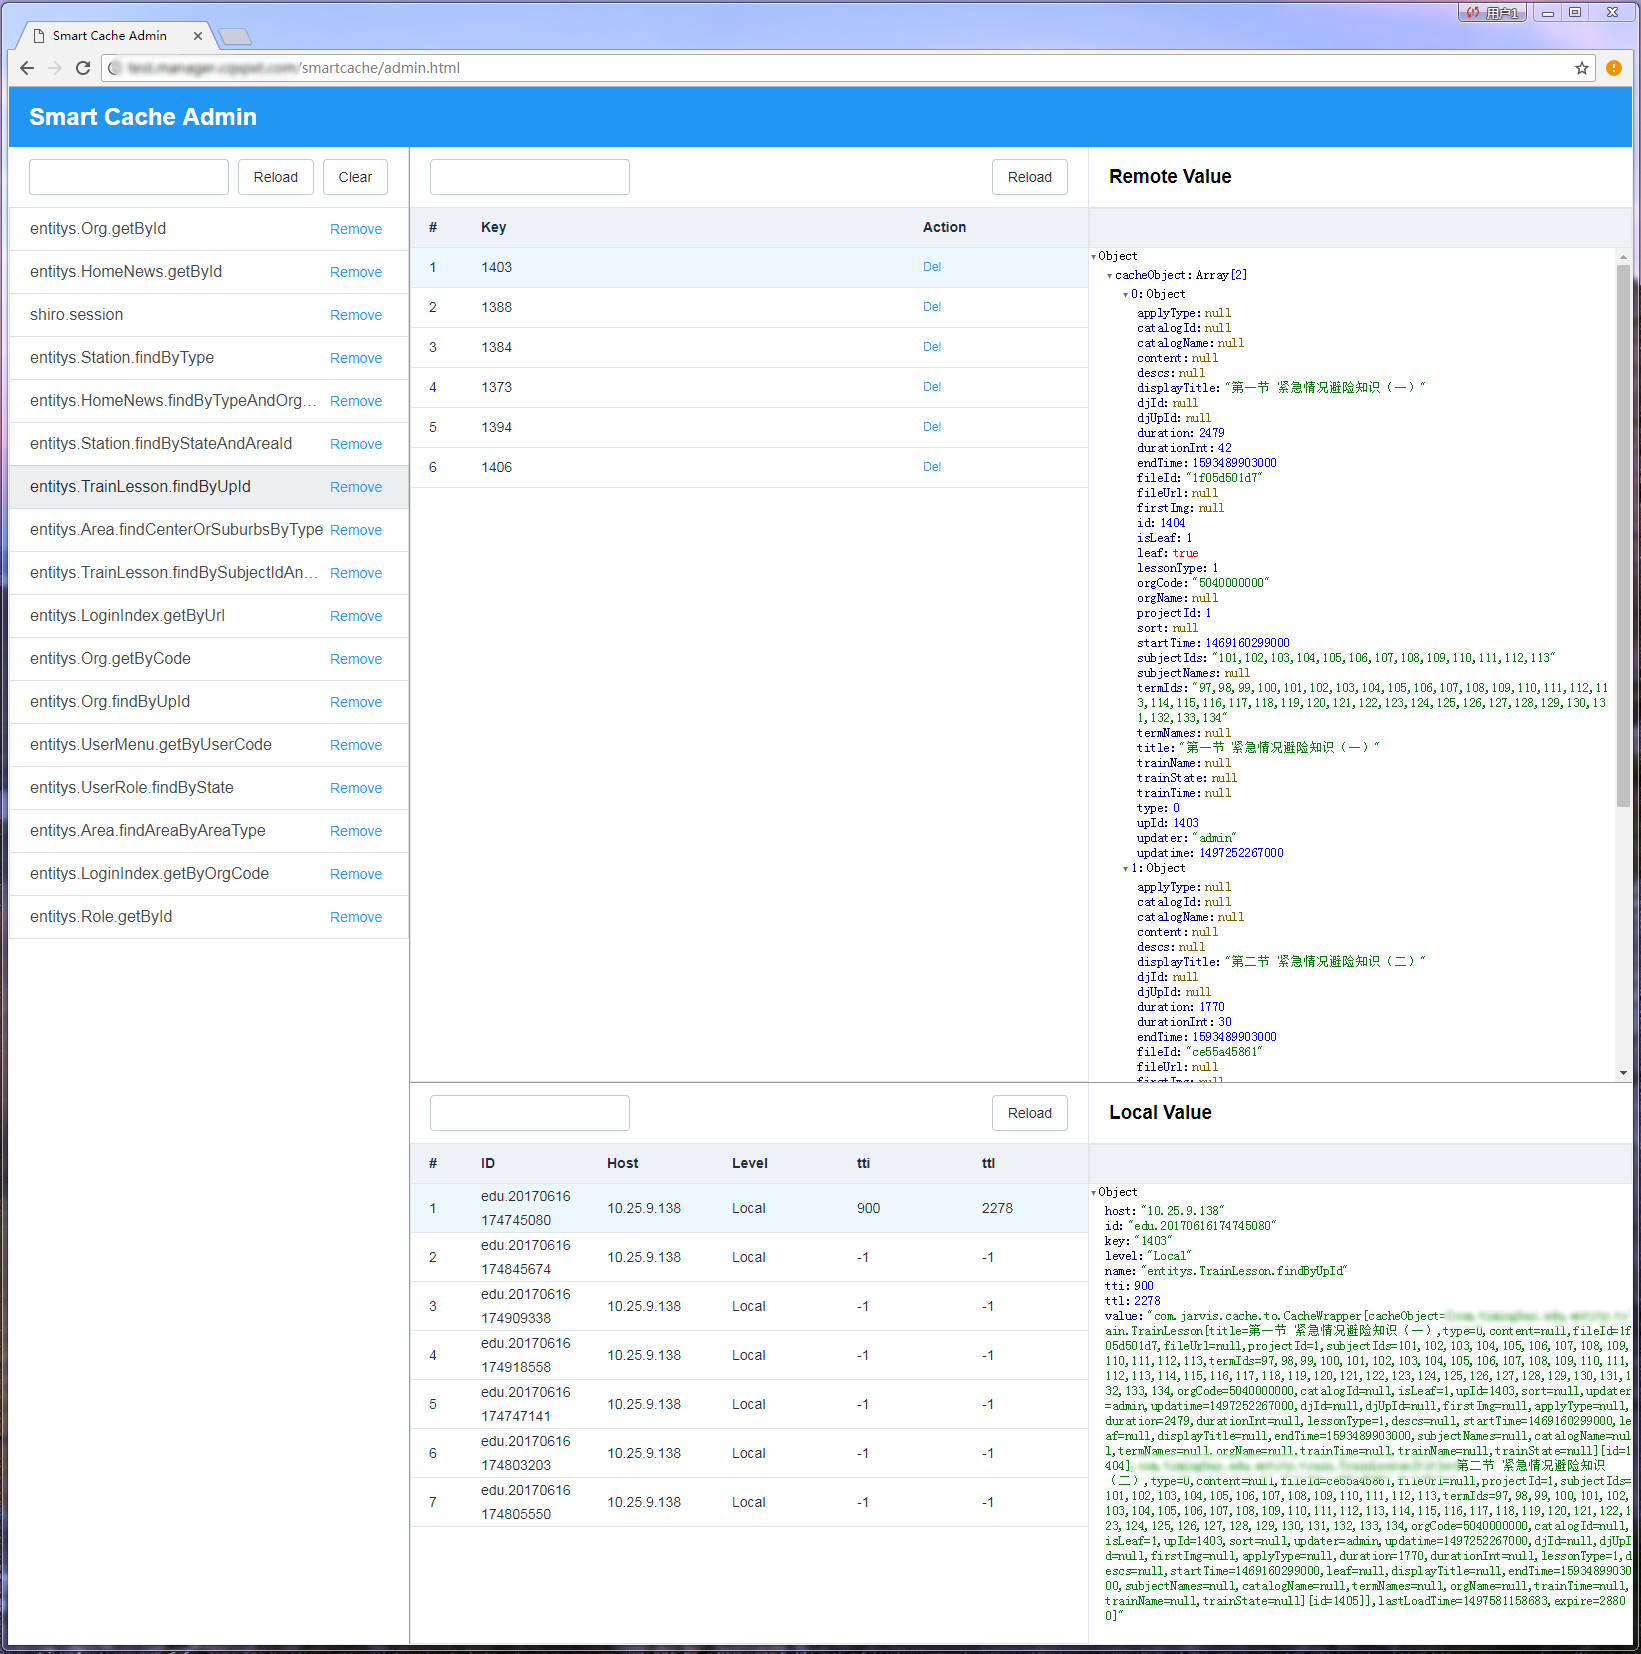
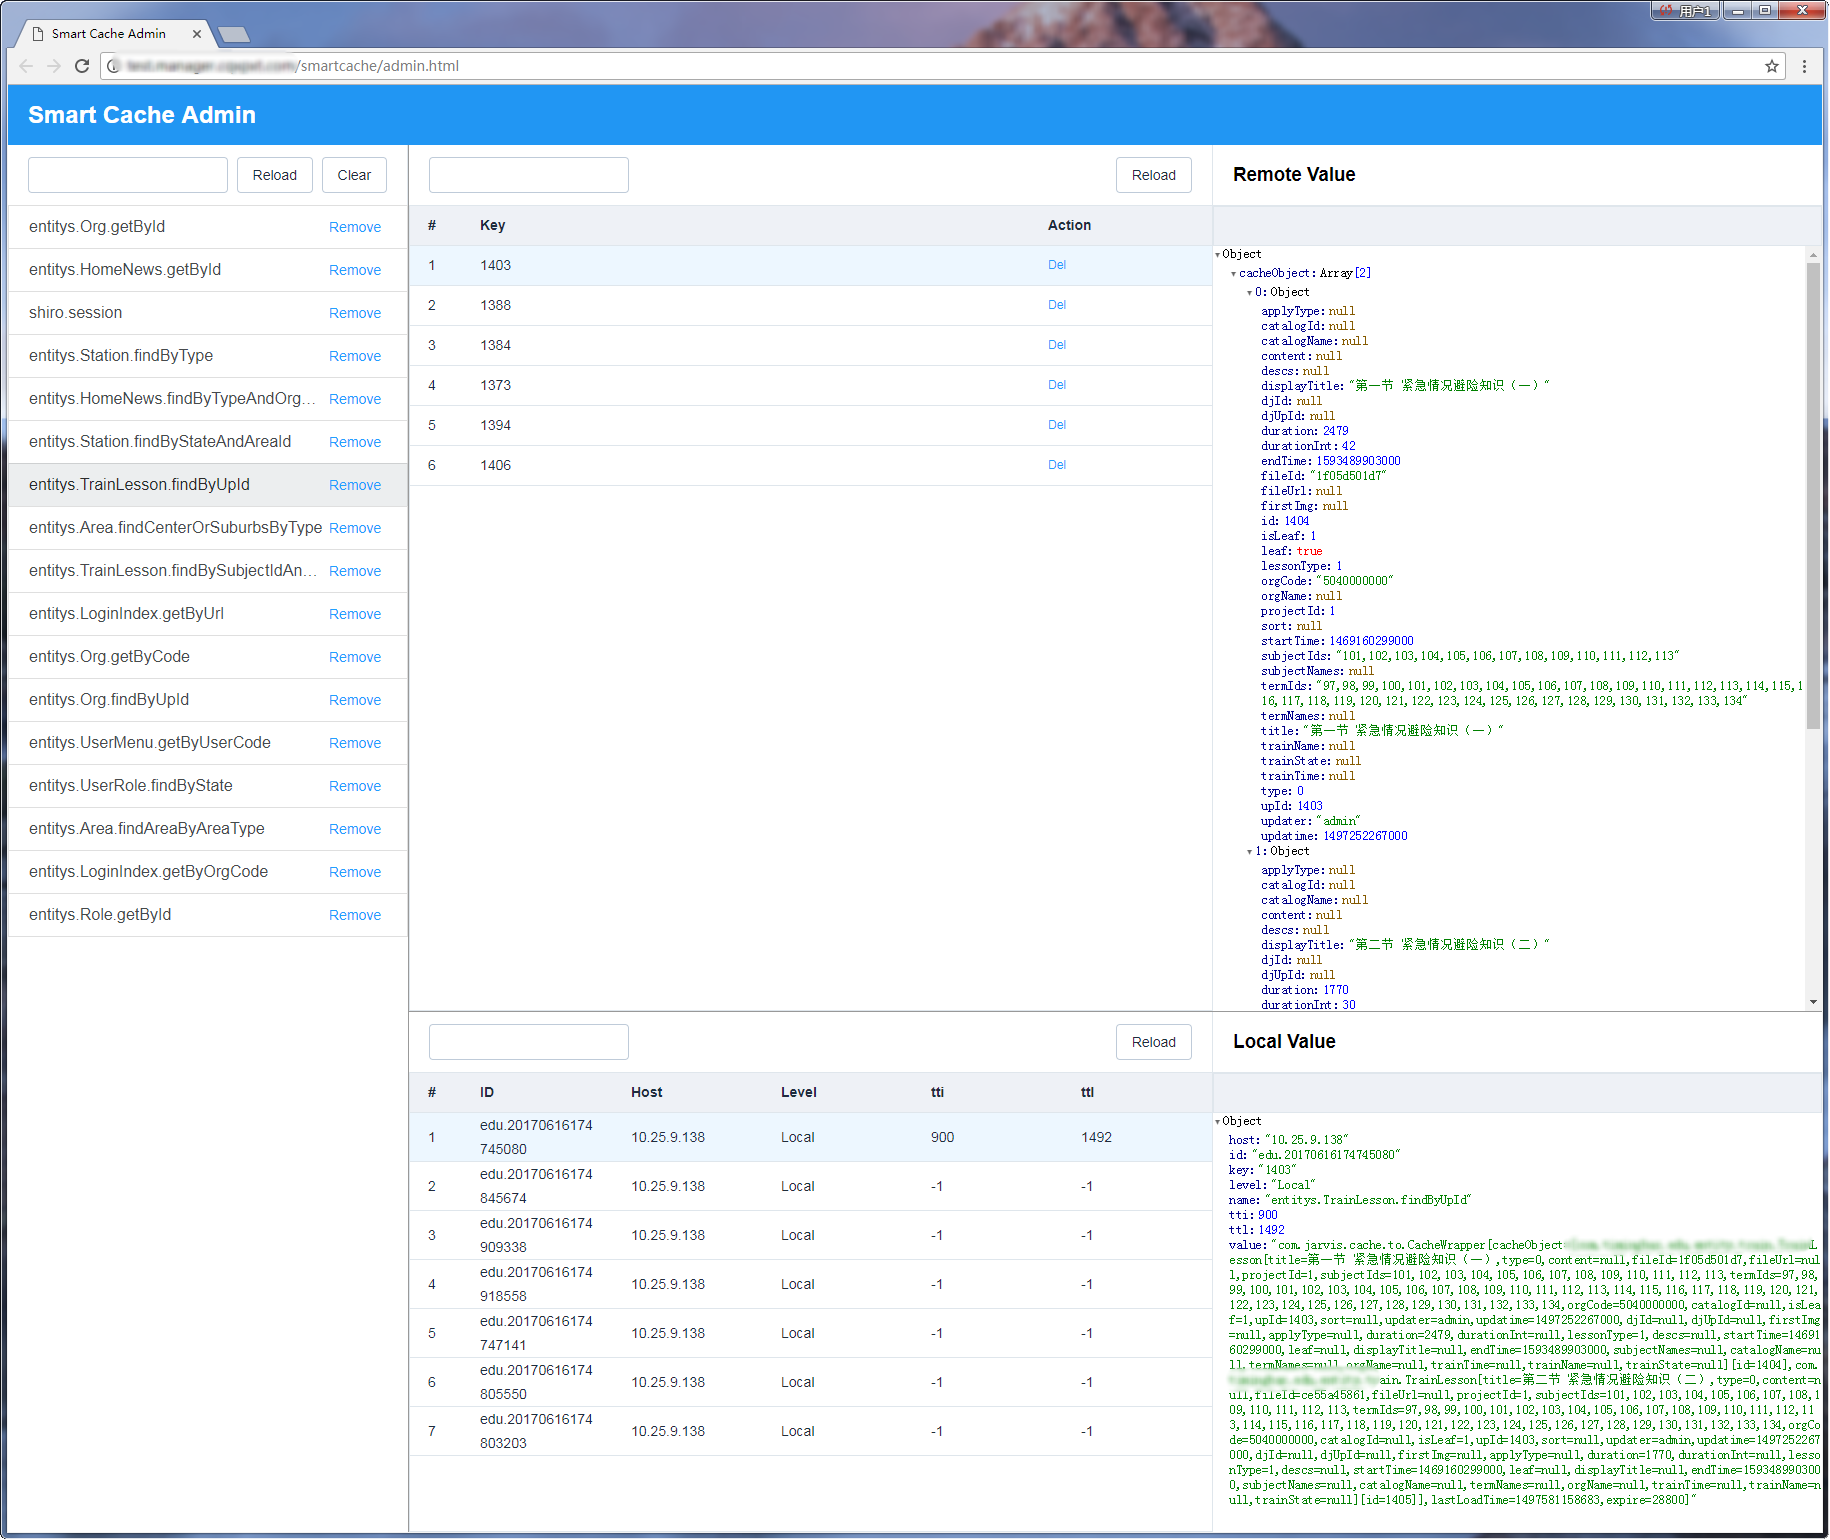
样式调整

diff --git a/smart-cache/src/main/resources/support/admin.html b/smart-cache/src/main/resources/support/admin.html
@@ -72,10 +72,10 @@
                                 <el-table :data="filterHosts" height="100%" highlight-current-row empty-text="Empty.." @row-click="selectHost">
                                     <el-table-column type="index" width="50"></el-table-column>
                                     <el-table-column prop="id" label="ID"></el-table-column>
-                                    <el-table-column prop="host" label="Host"></el-table-column>
-                                    <el-table-column prop="level" label="Level"></el-table-column>
-                                    <el-table-column prop="tti" label="tti"></el-table-column>
-                                    <el-table-column prop="ttl" label="ttl"></el-table-column>
+                                    <el-table-column prop="host" label="Host" width="150"></el-table-column>
+                                    <el-table-column prop="level" label="Level" width="80"></el-table-column>
+                                    <el-table-column prop="tti" label="tti" width="100"></el-table-column>
+                                    <el-table-column prop="ttl" label="ttl" width="100"></el-table-column>
                                     <!--<el-table-column label="Action" width="180">-->
                                     <!--<template scope="scope">-->
                                     <!--<el-button type="text" size="small" @click="del(scope.row.name)">del</el-button>-->
